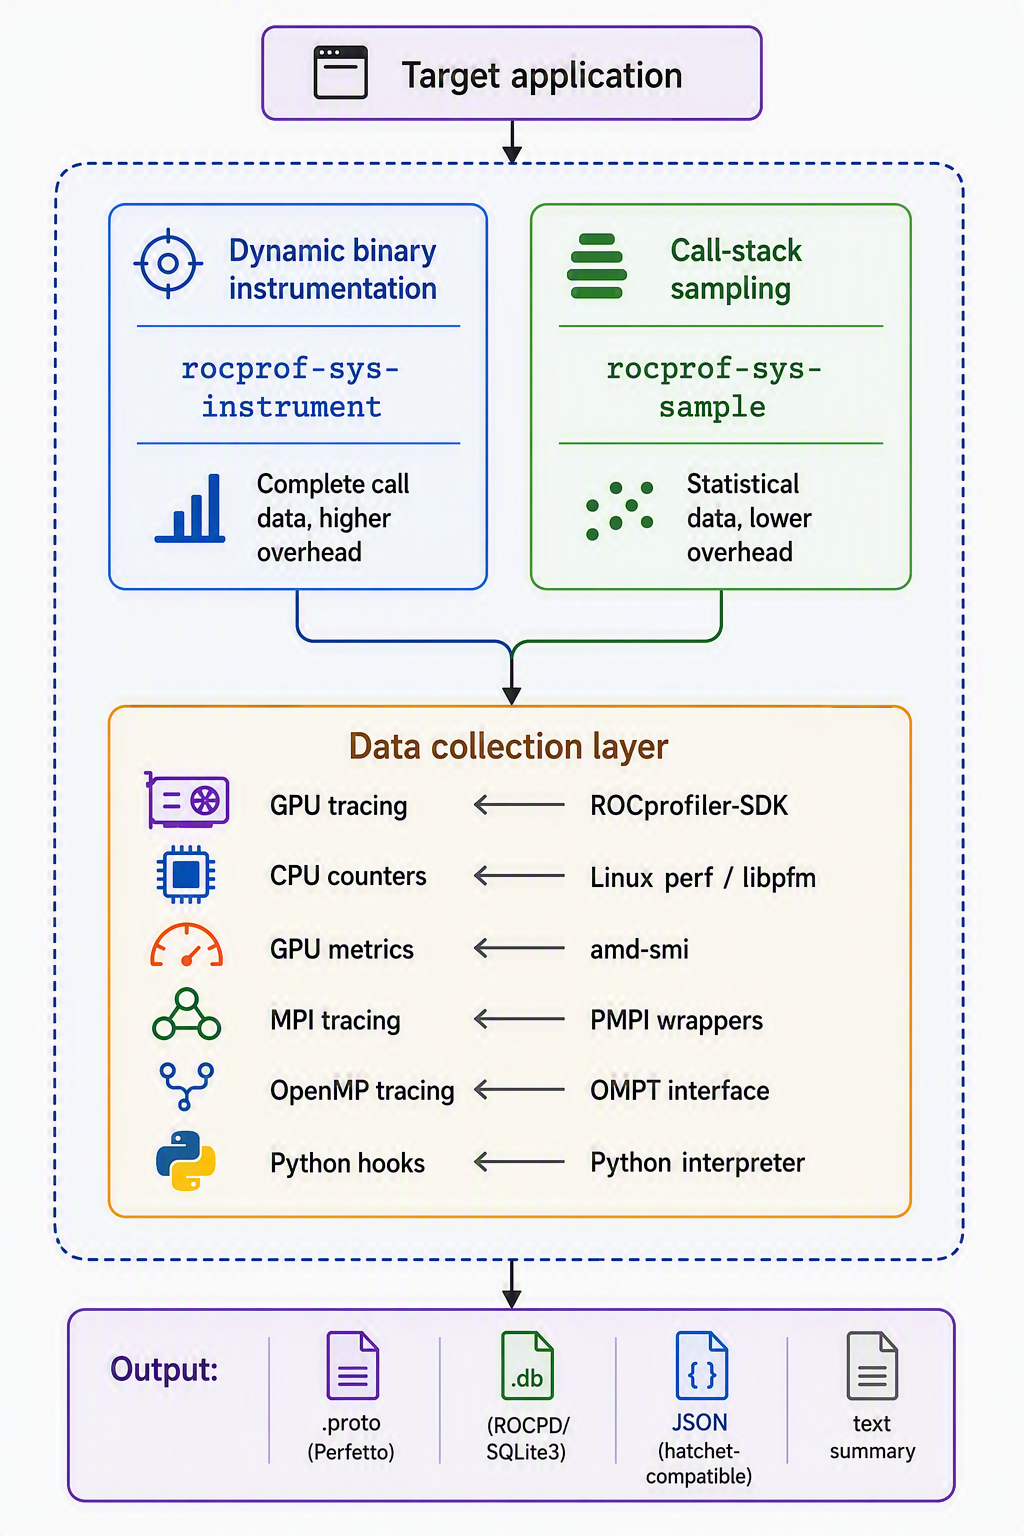
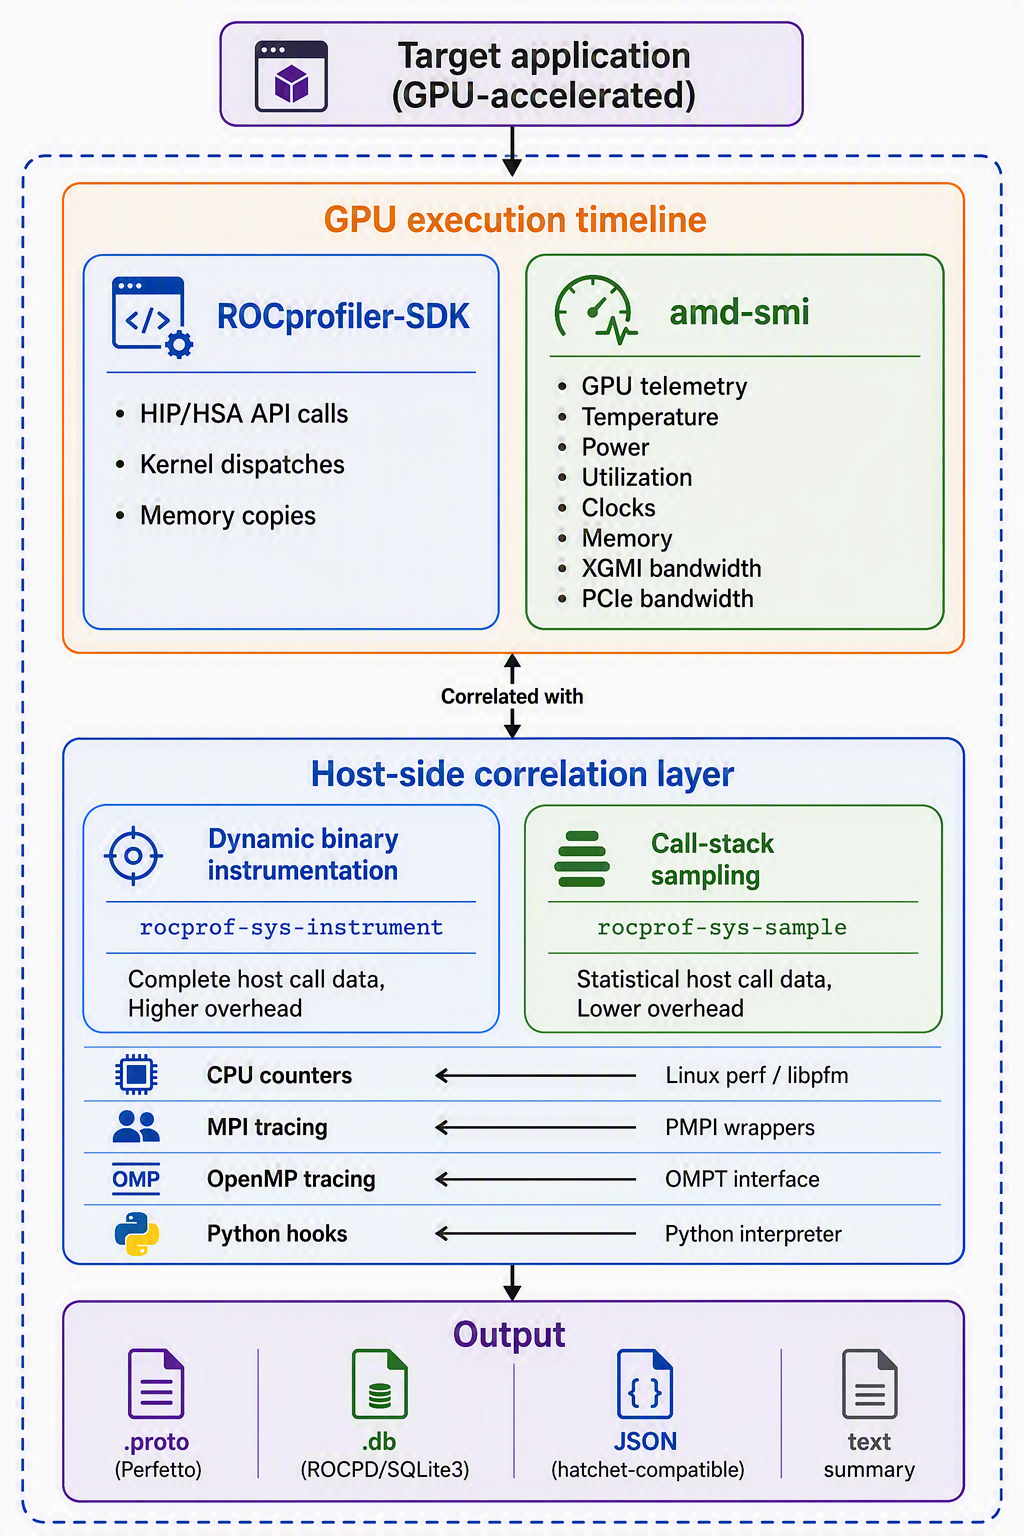
Review edits

diff --git a/projects/rocprofiler-systems/docs/quick-reference/rocprofiler-systems-at-a-glance.rst b/projects/rocprofiler-systems/docs/quick-reference/rocprofiler-systems-at-a-glance.rst
@@ -8,18 +8,20 @@
 ROCm Systems Profiler at a glance
 ******************************************************
 
-ROCm Systems Profiler (``rocprofiler-systems``) captures the entire application stack in a single, unified timeline: CPU function calls, GPU kernel dispatches, MPI collectives, OpenMP regions, memory allocations, OS scheduling events, and GPU telemetry such as temperature, power, utilization, and interconnect bandwidth.
+ROCm Systems Profiler (``rocprofiler-systems``) is a system-level profiler for GPU-accelerated applications. HIP/HSA API calls, kernel dispatches, memory copies, and GPU telemetry (temperature, power, utilization, and interconnect bandwidth) are the headline, captured in a single, unified timeline. Host call stacks, MPI/RCCL collectives, OpenMP regions, and Python frames exist to correlate with that GPU timeline - explaining why the device is busy, stalled, or waiting - rather than as a standalone CPU-profiling story.
 
-This system-wide view is especially useful when end-to-end performance depends on interactions across CPU, GPU, communication, and runtime - not on any single layer in isolation. In a distributed training job, for example, the GPU can appear idle not because its kernels are slow, but because a data loader is starved, an MPI collective is blocking, or Python's GIL is stalling the dispatch queue. Diagnosing these cross-domain interactions requires a tool that sees the full picture, not just the GPU in isolation.
+This correlation matters because end-to-end GPU performance often depends on what's happening off the device. In a distributed training job, for example, the GPU can appear idle not because its kernels are slow, but because a data loader is starved, an MPI collective is blocking, or Python's GIL is stalling the dispatch queue. Diagnosing these cases means correlating host-side activity with the GPU timeline, not profiling the GPU in isolation.
 
 This topic orients you to how ROCm Systems Profiler is put together and how to invoke it. For the full, categorized feature catalog and use cases, see :doc:`../conceptual/rocprof-sys-feature-set`; for a narrative introduction to output formats, see :doc:`../what-is-rocprof-sys`
 
-.. _glance-key-features:
+.. _glance-capabilities:
 
-Key features
+Capabilities
 ==============
 
 The feature set is spread across several how-to and conceptual pages; this table is a quick index into them.
+
+.. rubric:: Tracing
 
 .. list-table::
    :header-rows: 1
@@ -28,12 +30,6 @@ The feature set is spread across several how-to and conceptual pages; this table
    * - Feature
      - Description
      - See also
-   * - Dynamic binary instrumentation
-     - Rewrites the application binary to insert timing probes at every function entry and exit. No source changes needed; provides complete, deterministic call data.
-     - :ref:`glance-modes-compared`
-   * - Call-stack sampling
-     - Interrupts the application at a configurable frequency to capture the call stack, producing low-overhead statistical data.
-     - :ref:`glance-modes-compared`
    * - ROCm domain tracing
      - Traces ROCm API and runtime domains via ROCprofiler-SDK, including HIP, HSA, ROCTx, RCCL, kernel dispatches, memory events, rocDecode, and rocJPEG.
      - :ref:`rocprof-sys-feature-gpu-metrics`
@@ -43,15 +39,38 @@ The feature set is spread across several how-to and conceptual pages; this table
    * - OpenMP tracing
      - Captures thread team creation, parallel regions, task execution, and synchronization via the OMPT callback interface.
      - :doc:`../how-to/openmp-profiling`
-   * - CPU hardware counters
-     - Reads IPC, cache misses, branch mispredictions, and other CPU PMU events via the Linux ``perf`` subsystem.
-     - :ref:`rocprof-sys-feature-cpu-metrics`
+
+.. rubric:: Metrics
+
+.. list-table::
+   :header-rows: 1
+   :widths: 25 45 30
+
+   * - Feature
+     - Description
+     - See also
    * - GPU metrics
      - Samples GPU temperature, power, utilization, clocks, memory, and XGMI/PCIe bandwidth via ``amd-smi``; also collects GPU hardware counters via ``--gpu-events``.
      - :ref:`rocprof-sys-feature-gpu-metrics`, :doc:`../how-to/xgmi-pcie-sdma-sampling`, :doc:`../how-to/vcn-jpeg-sampling`
-   * - Causal profiling
-     - Estimates the end-to-end speedup from optimizing a given function or line by selectively slowing other code regions.
-     - :doc:`../how-to/performing-causal-profiling`
+   * - CPU hardware counters
+     - Reads IPC, cache misses, branch mispredictions, and other CPU PMU events via the Linux ``perf`` subsystem.
+     - :ref:`rocprof-sys-feature-cpu-metrics`
+
+.. rubric:: Collection mechanism (host-side correlation)
+
+.. list-table::
+   :header-rows: 1
+   :widths: 25 45 30
+
+   * - Feature
+     - Description
+     - See also
+   * - Dynamic binary instrumentation
+     - Rewrites the application binary to insert timing probes at every function entry and exit. No source changes needed; provides complete, deterministic host call-stack data to correlate with the GPU timeline.
+     - :ref:`glance-modes-compared`
+   * - Call-stack sampling
+     - Interrupts the application at a configurable frequency to capture the host call stack, producing low-overhead statistical data to correlate with the GPU timeline.
+     - :ref:`glance-modes-compared`
    * - Python hooks
      - Instruments Python interpreter call frames for mixed Python/C++/HIP workload analysis.
      - :doc:`../how-to/profiling-python-scripts`
@@ -59,12 +78,25 @@ The feature set is spread across several how-to and conceptual pages; this table
      - Attaches to an already-running process without restarting it, similar to the ``rocprofv3`` attach feature.
      - :doc:`../how-to/attaching-to-running-process`
 
+.. rubric:: Analysis
+
+.. list-table::
+   :header-rows: 1
+   :widths: 25 45 30
+
+   * - Feature
+     - Description
+     - See also
+   * - Causal profiling
+     - Estimates the end-to-end speedup from optimizing a given function or line by selectively slowing other code regions.
+     - :doc:`../how-to/performing-causal-profiling`
+
 .. _glance-architecture:
 
 How it works
 =============
 
-ROCm Systems Profiler collects data through several mechanisms - binary instrumentation, statistical sampling, callback APIs, and symbol interception - and merges CPU, GPU, communication, and system metrics into shared trace/profile output.
+ROCm Systems Profiler couples GPU kernel dispatches, memory copies, and device telemetry with the host-side activity around them. GPU data is captured via ROCprofiler-SDK callbacks and ``amd-smi`` polling; host call stacks, MPI, OpenMP, and Python frames are captured via binary instrumentation, statistical sampling, callback APIs, or symbol interception. Everything is merged into a single trace/profile output, correlated on the GPU timeline.
 
 .. image:: ../data/how_systems_profiler_works.png
    :width: 60%
@@ -74,8 +106,8 @@ For the full explanation of each collection mode, including overhead trade-offs 
 
 .. _glance-modes-compared:
 
-Instrumentation modes compared
-================================
+Binary instrumentation vs. call-stack sampling
+================================================
 
 Binary instrumentation and call-stack sampling can be used independently or together, trading overhead against completeness:
 
@@ -134,12 +166,10 @@ ROCm Systems Profiler ships as a set of standalone executables, each oriented to
      - Attaches to an already-running process
      - ``rocprof-sys-attach -p $(pidof my_app)``
      - :doc:`../how-to/attaching-to-running-process`
-
-MPI workloads are typically run with ``rocprof-sys-sample`` under ``mpirun``:
-
-.. code-block:: shell
-
-   mpirun -n 4 rocprof-sys-sample --preset=trace-hpc -- ./mpi_app
+   * - ``rocprof-sys-causal``
+     - Performs causal profiling to estimate optimization impact
+     - ``rocprof-sys-causal -l foo -- ./app``
+     - :doc:`../how-to/performing-causal-profiling`
 
 .. _glance-presets:
 
@@ -173,9 +203,6 @@ Discover, inspect, and apply a preset as follows:
    .. code-block:: shell
 
       rocprof-sys-run --preset=balanced --gpu=temp,power -- ./my_app
-
-Available presets
---------------------
 
 Each built-in preset enables a different combination of tracing, profiling, sampling, and domains, tuned for a specific workload scenario:
 

diff --git a/projects/rocprofiler-systems/docs/conceptual/data-collection-modes.rst b/projects/rocprofiler-systems/docs/conceptual/data-collection-modes.rst
@@ -210,7 +210,7 @@ Profile types:
 Selecting output formats
 ^^^^^^^^^^^^^^^^^^^^^^^^^
 
-Starting in ROCm 7.14, the `--output-format` option (in `rocprof-sys-run` and `rocprof-sys-sample`) selects which output format(s) to produce in a single option. The selection is authoritative: only the formats you name are produced. The existing individual flags and environment variables remain available; use either `--output-format` or those flags on the same command line, not both.
+Starting ROCm 7.14, the `--output-format` option (in `rocprof-sys-run` and `rocprof-sys-sample`) selects which output format(s) to produce in a single option. The selection is authoritative: only the formats you name are produced. The existing individual flags and environment variables remain available; use either `--output-format` or those flags on the same command line, not both.
 
 .. list-table::
    :header-rows: 1
@@ -218,7 +218,7 @@ Starting in ROCm 7.14, the `--output-format` option (in `rocprof-sys-run` and `r
 
    * - Token
      - Output
-     - Legacy CLI flag
+     - Individual CLI flag
      - Equivalent environment variable(s)
    * - ``proto``
      - Perfetto trace
